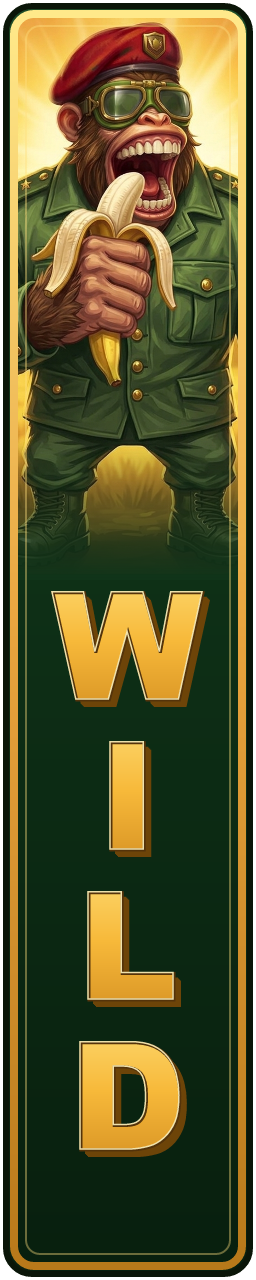
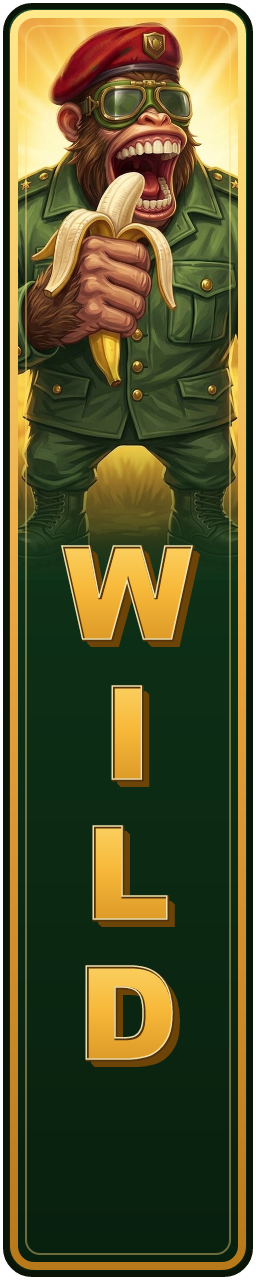
fix(GoBananas): FG 告示牌繩子 / 計數牌位置 / 擴展百搭倍率徽章
## 1. FG 告示牌頂端的「兩根繩子」

fs_sign 有兩條 rope hanger：(190,96)->(250,12) 與 (730,96)->(670,12)。
下端停在距牌面（y=130）還有 34px 的地方、上端接到空氣 —— 兩端都沒接到
任何東西，看起來就是兩截散落的繩子。已移除；銅角、鉚釘、外框本來就撐
得住這塊牌子。

同時移除香蕉徽章：它在 (460,205)，而前端把標題畫在 ~y=260 —— 三片重疊
的香蕉造型正好從「FREE」和「SPINS」中間探出來，變成兩截不相連的金色
碎片（很可能回報的就是這個）。

驗證：原繩子區（y<110）不透明像素 0；原徽章位置中央帶只剩 (460,180)
那顆鉚釘（設計元素，本來就有）。

## 2. FG 計數牌與 Buy Bonus 重疊

計數牌原本錨在盤面上緣。改成側欄 UI 後 Buy Bonus 置中於左欄，加上盤面
已佔畫面高 94%，兩者就撞在一起。改為錨在畫面上緣 mainLayout().height
* 0.05。

驗證（遊戲空間 1422x800）：計數牌 y 40-227、Buy Bonus y 267-533，
間隙 40px。

## 3. 擴展百搭倍率遮到金框

兩層原因，兩邊都修：

- 牌子本身：原本整輪寬、0x0d1806 不透明底、高 SYMBOL_SIZE*0.52，壓在
  外框上。改成無填色的小圓環（黃銅描邊 + 柔光暈），半徑 0.26，字級
  0.4 -> 0.27，並往上移到 height - SYMBOL_SIZE*0.44
- 底圖：wx.png 的 WILD 字母原本字級 150、y = 700 + i*150，最後一個 D
  基線落在 1150，下方只剩 130px —— 而倍率牌高度正好 0.52x256=133，
  必然重疊。字級改 130、y = 640 + i*140，D 基線移到 1080

驗證：重新產生的 wx.png 在 y>=1080 之後完全沒有字母筆畫，替倍率環清出
200px。

check_undefined_refs / check_assets 全過、build 通過、實跑零 console
錯誤。

明細見 HANDOFF.md 5.31。

Changed region(s): [[0.1875, 0.4062, 0.8125, 0.9062]]

diff --git a/apps/GoBananas/src/components/ExpandingWilds.svelte b/apps/GoBananas/src/components/ExpandingWilds.svelte
@@ -421,30 +421,31 @@
 			/>
 		{/if}
 
-		<!-- multiplier plaque: full-width brass banner on the bottom rail, opaque
-		     so it reads over the artwork behind it -->
+		<!--
+			Multiplier. Deliberately NOT a filled plate any more: the opaque banner
+			was as wide as the reel and tall enough to sit on the housing's gold
+			frame. It is now a compact ring — brass outline, no fill — pulled up off
+			the bottom rail, and the WILD lettering behind it was shrunk (see
+			design/generate_symbols_realistic.mjs) to leave it clear space.
+		-->
 		{#if wild.badgeScale.current > 0}
-			{@const plaqueH = SYMBOL_SIZE * 0.52}
-			<Container {x} y={BOARD_SIZES.height - plaqueH * 0.5 - 4} scale={wild.badgeScale.current}>
+			{@const r = SYMBOL_SIZE * 0.26}
+			<Container {x} y={BOARD_SIZES.height - SYMBOL_SIZE * 0.44} scale={wild.badgeScale.current}>
 				<Graphics
 					draw={(g: PixiGraphics) => {
-						const w = SYMBOL_SIZE - 8;
-						const h = plaqueH;
 						const glow = auraPulse(wild.reel);
 						g.clear();
-						g.lineStyle(7, 0xffd75e, 0.18 + 0.16 * glow);
-						g.drawRoundedRect(-w / 2 - 3, -h / 2 - 3, w + 6, h + 6, 12);
-						g.lineStyle(0);
-						g.beginFill(0x0d1806, 1);
-						g.drawRoundedRect(-w / 2, -h / 2, w, h, 10);
-						g.endFill();
+						// soft halo only — enough to lift the number off the art behind
+						// it without boxing it in
+						g.lineStyle(10, 0xffd75e, 0.1 + 0.1 * glow);
+						g.drawCircle(0, 0, r);
 						g.lineStyle(3.5, 0xd8a334, 1);
-						g.drawRoundedRect(-w / 2, -h / 2, w, h, 10);
-						g.lineStyle(1.5, 0xfff3bd, 0.75);
-						g.drawRoundedRect(-w / 2 + 4, -h / 2 + 4, w - 8, h - 8, 7);
+						g.drawCircle(0, 0, r);
+						g.lineStyle(1.5, 0xfff3bd, 0.7);
+						g.drawCircle(0, 0, r - 5);
 					}}
 				/>
-				<GoldText text={`${wild.mult}X`} fontSize={SYMBOL_SIZE * 0.4} maxWidth={SYMBOL_SIZE - 22} />
+				<GoldText text={`${wild.mult}X`} fontSize={SYMBOL_SIZE * 0.27} maxWidth={r * 1.7} />
 			</Container>
 		{/if}
 	{/each}

diff --git a/apps/GoBananas/src/components/FreeSpinCounter.svelte b/apps/GoBananas/src/components/FreeSpinCounter.svelte
@@ -42,10 +42,11 @@
 						context.stateGameDerived.boardLayout().width * 0.5 -
 						panelSizes.width -
 						SYMBOL_SIZE * 0.6,
-					y:
-						context.stateGameDerived.boardLayout().y -
-						context.stateGameDerived.boardLayout().height * 0.5 +
-						SYMBOL_SIZE * 0.2,
+					// Pinned near the top of the screen rather than to the board's top
+					// edge. With the side-rail UI the Buy Bonus button is centred in
+					// the left rail, and the board now fills 94% of the height — the
+					// old board-relative position put this plaque straight through it.
+					y: context.stateLayoutDerived.mainLayout().height * 0.05,
 				},
 	);
 

diff --git a/apps/GoBananas/HANDOFF.md b/apps/GoBananas/HANDOFF.md
@@ -530,6 +530,31 @@ playfield 由 428 → **526px**（+23% 線性、**+51% 面積**）。
 
 註：間距是由**實測縮放比例**推算的，不是直接觀察展開後的選單 —— 測試環境無法觸發 pixi 的按鈕事件把選單打開。
 
+## 5.31 FG 告示牌繩子 / 計數牌位置 / 倍率徽章（2026-07-22 第二十一輪）
+
+### 1. FG 告示牌頂端的「兩根繩子」
+
+`fs_sign` 有兩條 rope hanger：`(190,96)->(250,12)` 與 `(730,96)->(670,12)`。下端停在距牌面（y=130）還有 34px 的地方、上端接到空氣 —— **兩端都沒接到任何東西**，看起來就是兩截散落的繩子。**已移除**；銅角、鉚釘、外框本來就撐得住這塊牌子。
+
+同時移除香蕉徽章：它在 `(460,205)`，而前端把標題畫在 ~y=260 —— 三片重疊的香蕉造型正好從「FREE」和「SPINS」中間探出來，變成兩截不相連的金色碎片（很可能使用者說的就是這個）。
+
+驗證：原繩子區（y<110）不透明像素 **0**；原徽章位置中央帶只剩 (460,180) 那顆**鉚釘**（設計元素，本來就有）。
+
+### 2. FG 計數牌與 Buy Bonus 重疊
+
+計數牌原本錨在盤面上緣（`boardLayout().y - height*0.5 + SYMBOL_SIZE*0.2`）。改成側欄 UI 後 Buy Bonus 置中於左欄，加上盤面已佔畫面高 94%，兩者就撞在一起。改為錨在畫面上緣：`mainLayout().height * 0.05`。
+
+驗證（遊戲空間 1422×800）：計數牌 y 40–227、Buy Bonus y 267–533，**間隙 40px**。
+
+### 3. 擴展百搭倍率遮到金框
+
+兩層原因，兩邊都修：
+
+- **牌子本身**：原本是整輪寬、`0x0d1806` 不透明底、高 `SYMBOL_SIZE*0.52`，壓在外框上。改成**無填色的小圓環**（黃銅描邊 + 柔光暈），半徑 `SYMBOL_SIZE*0.26`，字級 0.4→0.27，並往上移到 `height - SYMBOL_SIZE*0.44`
+- **底圖**：`wx.png` 的 WILD 字母原本字級 150、`y = 700 + i*150`，最後一個 D 基線落在 1150，下方只剩 130px —— 而倍率牌高度正好 0.52×256=133，必然重疊。字級改 130、`y = 640 + i*140`，D 基線移到 1080
+
+驗證：重新產生的 `wx.png` 在 y≥1080 之後**完全沒有字母筆畫**，替倍率環清出 200px。
+
 ## 6. 待辦
 
 - [x] math 正式跑完（2026-07-16）：`math-sdk/games/GoBananas/library/` 三模式 RTP 0.97、驗證全過；books 含 `newExpandingWilds`/`updateExpandingWilds`/`newStickySymbols`。注意 `game_config.py` 的 game_id 原是範例殘留 `0_0_expwilds`，已改 `GoBananas`
